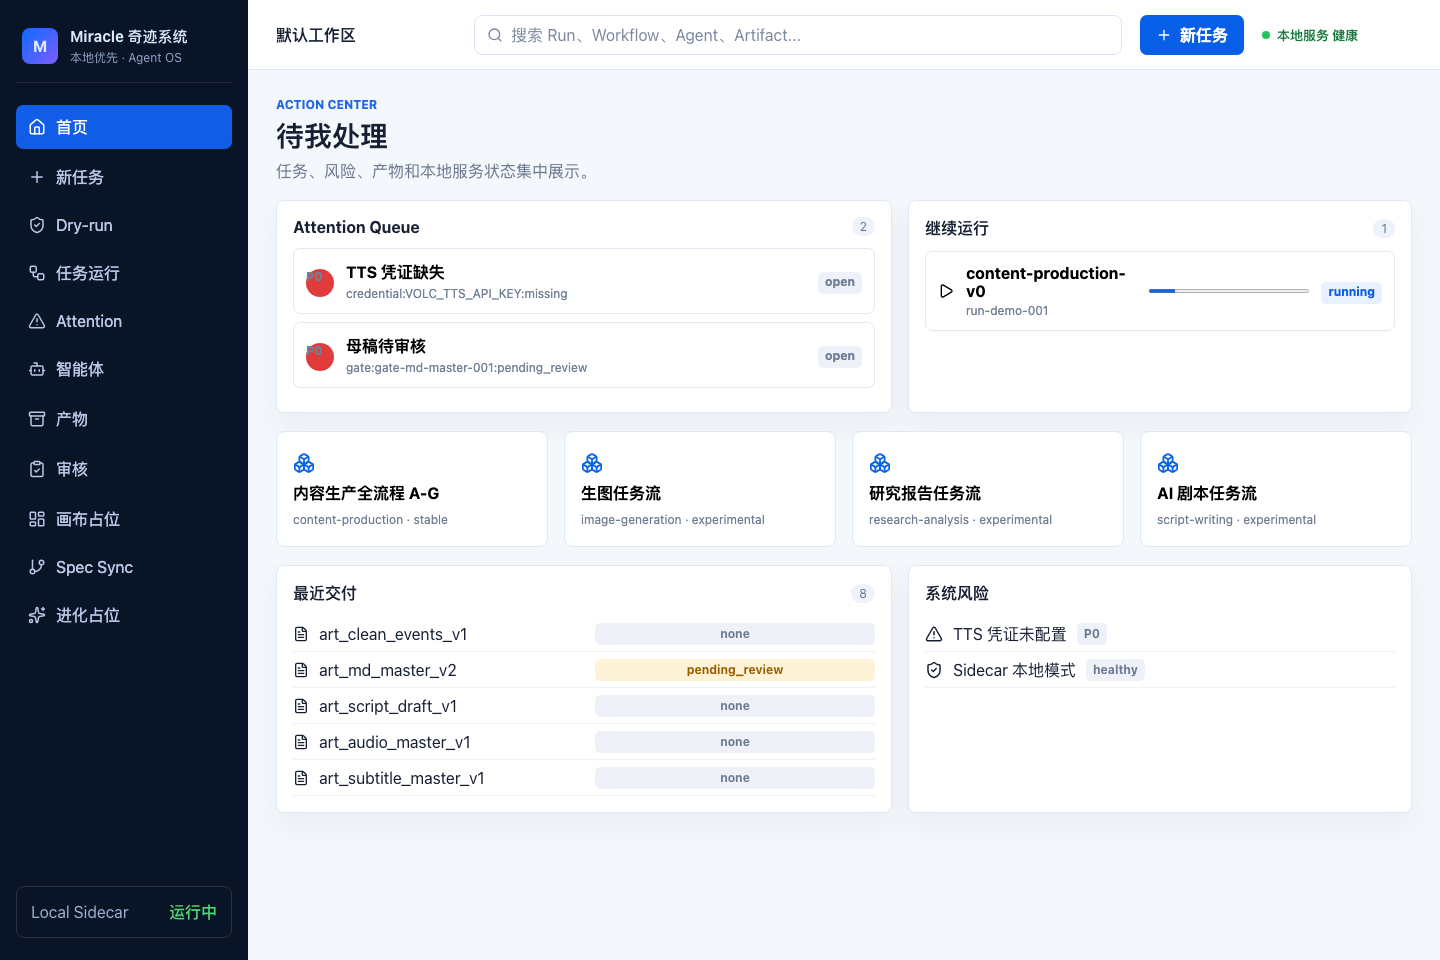
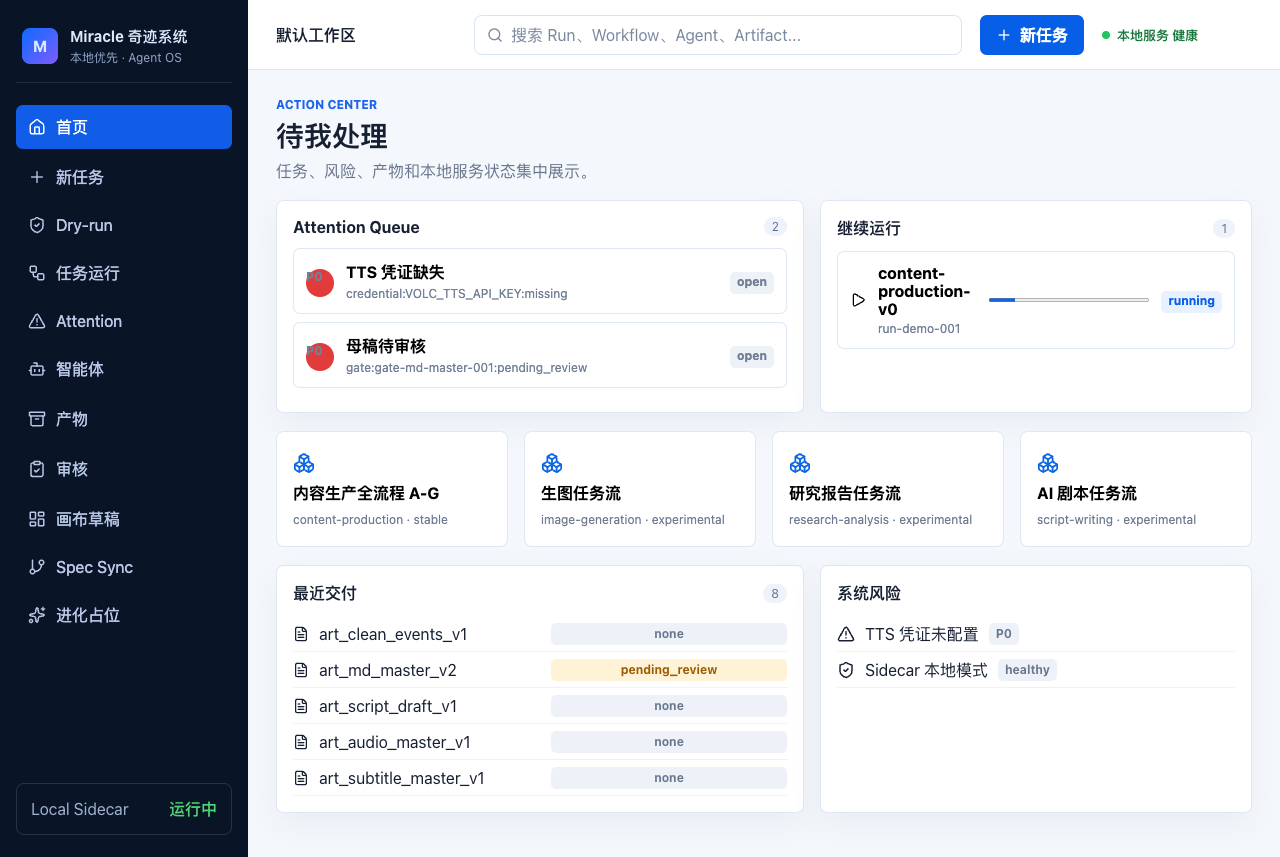
完成D10 MVP回归验收与版本收口

diff --git a/apps/web/src/App.tsx b/apps/web/src/App.tsx
@@ -324,7 +324,17 @@ function NewTaskPage({ workflowId, setWorkflowId, go }: { workflowId: string; se
 }
 
 function DryRunPage({ workflowId, setRunId, go }: { workflowId: string; setRunId: (id: string) => void; go: (page: Page) => void }) {
-  const plan = useApi<any>(`/workflows/${workflowId}/dry-run`, [workflowId]);
+  const [plan, setPlan] = useState<ApiState<any>>({ loading: true });
+  useEffect(() => {
+    let alive = true;
+    setPlan((current) => current.data ? { ...current, loading: false, refreshing: true, error: undefined } : { loading: true });
+    api<any>(`/workflows/${workflowId}/dry-run`, { method: "POST", body: JSON.stringify({}) })
+      .then((data) => alive && setPlan({ loading: false, refreshing: false, data, updatedAt: Date.now() }))
+      .catch((error: Error) => alive && setPlan((current) => ({ ...current, loading: false, refreshing: false, error: error.message })));
+    return () => {
+      alive = false;
+    };
+  }, [workflowId]);
   async function startRun() {
     const result = await api<any>("/runs", { method: "POST", body: JSON.stringify({ workflow_id: workflowId, execution_policy: "hybrid", role_profile: "operator" }) });
     setRunId(result.run_id);
@@ -928,17 +938,16 @@ function CanvasPage({ workflowId }: { workflowId: string }) {
   }
 
   async function addNodeDraft() {
-    setSaveState("正在保存当前画布");
+    if (objects.length === 0) {
+      setSaveState("生成已取消 · 画布尚未加载");
+      return;
+    }
+    setSaveState("正在生成 NodeSpec draft");
     try {
-      const saved = await saveDraft();
-      if (!saved.ok) {
-        setSaveState(`生成已取消 · ${saved.error}`);
-        return;
-      }
-      setSaveState("正在生成 NodeSpec draft");
       const result = await api<any>(`/workflows/${workflowId}/canvas-draft/nodes`, {
         method: "POST",
         body: JSON.stringify({
+          objects,
           title: nodeTitle,
           capability: nodeCapability,
           zone_id: nodeZone,
@@ -948,7 +957,8 @@ function CanvasPage({ workflowId }: { workflowId: string }) {
       });
       setObjects(result.draft.objects);
       setDraftMeta(result);
-      setSaveState(`已生成草稿节点 · ${result.node_object?.ref_id}`);
+      const nodeId = result.node_object?.node_spec_draft?.node_spec?.id ?? result.node_object?.ref_id;
+      setSaveState(`已生成草稿节点 · ${nodeId}`);
     } catch (error) {
       setSaveState(`生成失败 · ${error instanceof Error ? error.message : "NodeSpec draft invalid"}`);
     }

diff --git a/apps/sidecar/test/api.test.ts b/apps/sidecar/test/api.test.ts
@@ -282,14 +282,20 @@ describe("sidecar api", () => {
   });
 
   it("creates a Canvas NodeSpec draft with validate-before-save", async () => {
+    const current = await fetchJson<{
+      draft: { objects: Array<{ id: string; x: number; y: number }> };
+    }>("/api/v0/workflows/content-production-v0/canvas-draft");
+    const moved = current.draft.objects.map((object, index) => (index === 0 ? { ...object, x: object.x + 24, y: object.y + 16 } : object));
     const created = await fetchJson<{
       accepted: boolean;
+      draft: { objects: Array<{ id: string; x: number; y: number }> };
       node_object: { ref_id: string; node_spec_draft: { status: string; node_spec: { id: string; capability_requirements: string[] } } };
       validation: { valid: boolean; errors: unknown[] };
       spec_diff_preview: { operations: Array<{ op: string; path: string }> };
     }>("/api/v0/workflows/content-production-v0/canvas-draft/nodes", {
       method: "POST",
       body: JSON.stringify({
+        objects: moved,
         title: "Pencil 原型设计",
         capability: "prototype.pencil",
         zone_id: "content"
@@ -300,6 +306,7 @@ describe("sidecar api", () => {
     expect(created.validation.valid).toBe(true);
     expect(created.node_object.node_spec_draft.status).toBe("ready");
     expect(created.node_object.node_spec_draft.node_spec.capability_requirements).toEqual(["prototype.pencil"]);
+    expect(created.draft.objects.find((object) => object.id === moved[0]?.id)?.x).toBe(moved[0]?.x);
     expect(created.spec_diff_preview.operations.some((operation) => operation.op === "add" && operation.path === "/nodes/-")).toBe(true);
 
     const draft = await fetchJson<{
@@ -398,8 +405,8 @@ describe("sidecar api", () => {
       };
     }>("/api/v0/project/roadmap");
 
-    expect(body.current_node_id).toBe("p4-05");
-    expect(body.phase_timeline.some((phase) => phase.id === "p4-05" && phase.status === "current")).toBe(true);
+    expect(body.current_node_id).toBe("p4-06");
+    expect(body.phase_timeline.some((phase) => phase.id === "p4-06" && phase.status === "current")).toBe(true);
     expect(body.mvp_execution_plan.some((task) => task.day === "D10")).toBe(true);
     expect(body.sync_state.git.available).toBe(true);
     expect(body.sync_state.git.head).toMatch(/[0-9a-f]{40}/);

diff --git a/apps/sidecar/src/server.ts b/apps/sidecar/src/server.ts
@@ -1340,8 +1340,15 @@ async function route(req: IncomingMessage, res: ServerResponse) {
     if (parts[4] === "canvas-draft") {
       const draftPath = `drafts/canvas-${workflowId}.json`;
       if (req.method === "POST" && parts[5] === "nodes") {
-        const currentDraft = (await readJsonOptional<CanvasLayout>(draftPath)) ?? buildCanvasDraftFromWorkflow(workflow);
         const body = await parseBody(req);
+        const currentDraft: CanvasLayout = Array.isArray(body.objects) && body.objects.length > 0
+          ? {
+              workflow_id: workflowId,
+              status: "draft",
+              updated_at: new Date().toISOString(),
+              objects: body.objects.map((object) => object as CanvasLayout["objects"][number])
+            }
+          : (await readJsonOptional<CanvasLayout>(draftPath)) ?? buildCanvasDraftFromWorkflow(workflow);
         const nodeObject = buildCanvasNodeSpecDraft({
           workflow,
           draft: currentDraft,

diff --git a/plans/mvp-task-baseline/index.html b/plans/mvp-task-baseline/index.html
@@ -3,6 +3,7 @@
   <head>
     <meta charset="UTF-8" />
     <meta name="viewport" content="width=device-width, initial-scale=1.0" />
+    <link rel="icon" href="data:," />
     <title>Miracle MVP 任务基线</title>
     <style>
       :root {

diff --git a/apps/web/index.html b/apps/web/index.html
@@ -3,6 +3,7 @@
   <head>
     <meta charset="UTF-8" />
     <meta name="viewport" content="width=device-width, initial-scale=1.0" />
+    <link rel="icon" href="data:," />
     <title>Miracle Agent OS MVP</title>
   </head>
   <body>

diff --git a/35_P4_MVP回归验收与版本收口报告.md b/35_P4_MVP回归验收与版本收口报告.md
@@ -1,0 +1,136 @@
+# 35_P4_MVP回归验收与版本收口报告
+
+> 文档状态：D10 MVP 回归验收通过。
+>
+> 验收日期：2026-07-02
+>
+> 适用版本：`v0.7.0`
+>
+> 验收范围：P4 MVP 本地 Web + Local Sidecar + core + fixture workspace。
+
+## 1. 结论
+
+D10 MVP 回归验收通过。Miracle 当前具备一条可运行、可演示、可回归的本地 Agent OS 主链路：
+
+```text
+WorkflowSpec / Registry / AdapterManifest
+-> Validate / Dry-run / POST Run
+-> Run DAG / Node Detail / Artifact / Gate / Attention
+-> 手动执行 / Scheduler tick / Scheduler run
+-> Gate 审核 / Reject 返工 / 新版本审核
+-> Canvas NodeSpec draft / Workflow draft
+-> task-baseline / 版本记录 / 截图证据
+```
+
+本轮验收中发现并修复两个 Web 回归：
+
+1. Dry-run 页面错误使用 GET 请求 `/workflows/:id/dry-run`，已改为 POST。
+2. Canvas 生成 NodeSpec draft 前先保存草稿，可能在空状态下覆盖服务端 layout，已改为随节点生成请求携带当前 `objects`，并增加空画布保护。
+
+## 2. 命令验收
+
+在仓库根目录执行并通过：
+
+| 命令 | 结果 |
+|---|---|
+| `npm run typecheck` | 通过 |
+| `npm run test` | 通过，Sidecar 22 tests，Core 6 tests，Web no test files |
+| `npm run build` | 通过 |
+| `git diff --check` | 通过 |
+
+## 3. API Smoke
+
+只读 API 使用 `http://127.0.0.1:4317`，写入类 API 使用临时 workspace 和 `http://127.0.0.1:4327`，避免污染 fixture。
+
+只读 smoke 覆盖 20 个端点，包括：
+
+- `/api/v0/health`
+- `/api/v0/project/roadmap`
+- `/api/v0/domains`
+- `/api/v0/roles`
+- `/api/v0/registry/templates`
+- `/api/v0/adapters`
+- `/api/v0/workflows`
+- `/api/v0/workflows/content-production-v0`
+- `/api/v0/workflows/content-production-v0/validate`
+- `/api/v0/workflows/content-production-v0/dry-run`
+- `/api/v0/runs`
+- `/api/v0/runs/run-demo-001`
+- `/api/v0/runs/run-demo-001/dag`
+- `/api/v0/runs/run-demo-001/events`
+- `/api/v0/agents/health`
+- `/api/v0/agents/collaboration`
+- `/api/v0/attention`
+- `/api/v0/artifacts`
+- `/api/v0/artifacts/art_md_master_v2?run_id=run-demo-001`
+- `/api/v0/gates/gate-md-master-001?run_id=run-demo-001`
+
+写入 smoke 覆盖：
+
+| 能力 | 结果 |
+|---|---|
+| `POST /runs` | 创建临时 Run 成功 |
+| `POST /runs/:runId/nodes/:nodeRunId/execute` | AdapterResult `succeeded` |
+| `POST /runs/:runId/scheduler/tick` | dry-run 返回 `dry_run` |
+| `POST /runs/:runId/scheduler/run` | 连续推进停在 `paused_for_gate` |
+| `POST /workflows/:workflowId/canvas-draft/nodes` | NodeSpec draft `ready` |
+| `POST /workflows/:workflowId/canvas-draft/publish` | draft Workflow validate 通过 |
+| `POST /gates/:gateId/decision` | reject 决策写入成功 |
+| `POST /gates/:gateId/rework` | 返工 version 2 和新 Gate 创建成功 |
+
+## 4. 页面 Smoke 与截图证据
+
+截图统一放在 `assets/reviews/p4-mvp/`。
+
+| 页面 | 截图 | 验收点 |
+|---|---|---|
+| 首页 | `assets/reviews/p4-mvp/01-home.png` | Attention、继续运行、最近交付、系统风险可见 |
+| 新任务 | `assets/reviews/p4-mvp/02-new-task.png` | 多 Domain、多模板入口可见 |
+| Dry-run | `assets/reviews/p4-mvp/03-dry-run.png` | POST dry-run 返回节点、风险和成本 |
+| Run 工作区 | `assets/reviews/p4-mvp/04-run-dag-node-detail.png` | React Flow DAG、Node Detail、Polling、事件审计可见 |
+| Attention | `assets/reviews/p4-mvp/05-attention.png` | 根因聚合、关联对象和安全动作可见 |
+| Gate Review | `assets/reviews/p4-mvp/06-gate-review.png` | Gate 详情、决策投影、下游影响可见 |
+| Artifact Board | `assets/reviews/p4-mvp/07-artifact-preview.png` | ArtifactManifest、Markdown 预览、hash/version 可见 |
+| Agent Collaboration | `assets/reviews/p4-mvp/08-agent-collaboration.png` | Agent 状态、等待对象和 active run 可见 |
+| Infinite Canvas | `assets/reviews/p4-mvp/09-canvas-node-draft.png` | NodeSpec draft、validate-ready、spec diff 可见 |
+| task-baseline | `assets/reviews/p4-mvp/10-task-baseline.png` | 任务基线、Git 状态、证据文件列表可见 |
+
+## 5. D10 修复项
+
+### 5.1 Dry-run 请求方法
+
+问题：Web Dry-run 页面通过 GET 请求 dry-run，Sidecar 只定义 POST。
+
+修复：`DryRunPage` 改为独立 POST 加载逻辑，不再复用 GET-only `useApi`。
+
+### 5.2 Canvas NodeSpec Draft 状态保护
+
+问题：生成 NodeSpec draft 前先保存草稿，若本地 `objects` 为空，会把服务端草稿覆盖为空。
+
+修复：
+
+- UI 生成节点时直接携带当前 `objects`。
+- UI 对空画布增加保护，不执行生成。
+- Sidecar `canvas-draft/nodes` 支持使用请求中的 `objects` 作为合并基线。
+- Sidecar 测试补充“未保存 layout + 新增节点”场景，确认 layout 变更不会丢失。
+
+## 6. 不进入本次验收的能力
+
+以下能力仍不作为 v0.7.0 阻断项：
+
+1. 真实 Codex / Hermes / OpenClaw / 官方 API 执行。
+2. 商业化云端控制平面。
+3. 多租户、账号、组织、权限、计费。
+4. 后台常驻 scheduler、跨 Run 队列和 Worker 池。
+5. 完整 Visual/Spec 文件 watcher、冲突合并和 Evolution 推荐算法。
+6. 移动端 / APP 适配。
+7. 真实 TTS、视频渲染和外部媒体服务调用。
+
+## 7. 后续建议
+
+下一阶段建议进入 P5 真实工作流接入：
+
+1. 接入“热点工具更新”真实 Flow A-G 历史 Run。
+2. 将现有 `approval_policy.yaml`、`task_trace.json`、`task_events.jsonl` 映射到 Miracle 对象。
+3. 先做只读展示，再进入半自动控制。
+4. 选择一个真实 Adapter 做最小可用接入，优先 Codex 或官方 API。

diff --git a/plans/mvp-task-baseline/README.md b/plans/mvp-task-baseline/README.md
@@ -22,12 +22,12 @@
 | P4 第四轮 | Gate 决策真实推进、Run 执行 UI、Canvas 发布 Workflow draft、Adapter 插件壳落地 | `27_P4第四轮_Gate推进Canvas发布与执行UI交付说明.md` |
 | P4 第五轮 D7 | Adapter manifest、Codex mock-compatible adapter、credential check 落地 | `32_P4第五轮_D7_Adapter插件目录实体化交付说明.md` |
 | P4 第五轮 D8/D9 | Canvas NodeSpec draft、validate-before-save、Run polling 和执行反馈落地 | `34_P4第五轮_D8_D9_Canvas节点草稿与Run刷新交付说明.md` |
-| D10 预备 | MVP 回归验收预备清单已生成，等待执行最终收口 | `33_P4_MVP回归验收预备清单.md` |
+| D10 验收 | MVP 回归验收与版本收口已通过，形成 v0.7.0 本地 MVP 验收基线 | `35_P4_MVP回归验收与版本收口报告.md` |
 
 当前红点：
 
 ```text
-P4 第五轮 MVP 执行能力补齐：D8/D9 已完成，D10 MVP 回归验收与版本收口为当前主线
+P4 MVP 验收与版本发布：D10 已完成，下一主线建议进入 P5 真实工作流接入
 ```
 
 ## 2. 可视化实现方式
@@ -64,7 +64,7 @@ Sidecar 在每次请求 `/api/v0/project/roadmap` 时动态补充：
 | D7 | Adapter 插件目录实体化 | 已完成，可并行 | Agent D | adapter manifests、Codex mock-compatible adapter、credential check |
 | D8 | Canvas 新增节点生成 NodeSpec draft | 已完成，可并行 | Agent B | 新增 node card、NodeSpec draft、validate-before-save |
 | D9 | Web run refresh/polling 与执行反馈 | 已完成，可并行 | Agent B | run polling、执行中状态、错误恢复提示 |
-| D10 | MVP 回归验收与版本收口 | 当前主线，串行收口 | Lead | typecheck/test/build、截图证据、版本记录 |
+| D10 | MVP 回归验收与版本收口 | 已完成，串行收口 | Lead | typecheck/test/build、API smoke、截图证据、版本记录、`35` |
 
 ## 4. 串行与并行边界
 
@@ -96,8 +96,8 @@ Sidecar 在每次请求 `/api/v0/project/roadmap` 时动态补充：
 
 | 阶段 | 目标 | 判断标准 |
 |---|---|---|
-| L1 本地 MVP 完整闭环 | 本地 Web + Local Sidecar 打通 Run、Gate、Artifact、Agent、Canvas、scheduler | 能本地启动、执行、审核、返工、查看审计 |
-| L2 真实工作流接入 | 接入真实“热点工具更新”流程 | 能导入历史 run，并启动一个半自动新 run |
+| L1 本地 MVP 完整闭环 | 本地 Web + Local Sidecar 打通 Run、Gate、Artifact、Agent、Canvas、scheduler | 已通过 D10 回归验收 |
+| L2 真实工作流接入 | 接入真实“热点工具更新”流程 | 下一阶段：能导入历史 run，并启动一个半自动新 run |
 | L3 真实 Adapter 接入 | 至少接入 Codex 或官方 API 的真实执行 | AdapterResult、ArtifactManifest、TraceEvent 可对账 |
 | L4 稳定运行系统 | 队列、重试、失败恢复、资源池、凭证治理 | 长任务可恢复，失败不丢审计 |
 | L5 商业化平台 | 云端控制平面、多租户、权限、计费、团队协作 | 可以支持团队和商业化部署 |
@@ -108,7 +108,7 @@ Sidecar 在每次请求 `/api/v0/project/roadmap` 时动态补充：
 
 1. 通过 Sidecar 独立地址 `/task-baseline` 访问，不进入 `apps/web` 侧边栏。
 2. 总体阶段用绿色、红色、灰色展示完成、当前和计划。
-3. 当前红点指向 `P4 第五轮 MVP 执行能力补齐`。
+3. 当前红点指向 `P4 MVP 验收与版本发布`。
 4. D1-D10 能区分串行和可并行任务。
 5. 能看到最近 Git 提交。
 6. 能看到工作区是否有未提交修改。
@@ -132,6 +132,7 @@ API:  http://127.0.0.1:4317/api/v0/project/roadmap
 
 ```text
 plans/mvp-task-baseline/roadmap-page.png
+assets/reviews/p4-mvp/
 ```
 
 ## 7. 后续维护规则

diff --git a/17_文档资产关联与AI阅读导航.md b/17_文档资产关联与AI阅读导航.md
@@ -150,6 +150,7 @@ flowchart TD
   P4H --> P4I["32 P4 第五轮 D7 Adapter 目录<br/>CURRENT"]
   P4I --> P4J["34 P4 第五轮 D8/D9 Canvas/Run 刷新<br/>CURRENT"]
   P4J --> P4K["33 D10 MVP 验收预备<br/>CURRENT"]
+  P4K --> P4L["35 D10 MVP 验收通过<br/>CURRENT"]
 ```
 
 图中虚线“采纳项回写”表示：评审文档本身不是最终规则，最终规则已经写回对应设计文档。
@@ -181,6 +182,7 @@ flowchart TD
 -> P4 MVP 第五轮 D7 Adapter 插件目录实体化 32
 -> P4 MVP 第五轮 D8/D9 Canvas 节点草稿与 Run 刷新 34
 -> D10 MVP 回归验收预备清单 33
+-> D10 MVP 回归验收与版本收口报告 35
 ```
 
 关键关系：
@@ -227,7 +229,9 @@ flowchart TD
   交付入口，记录 Canvas NodeSpec draft、validate-before-save、Workflow draft 发布、
   Run polling 和执行反馈。
 - `33_P4_MVP回归验收预备清单.md` 是 D10 验收预备资产，记录回归场景、命令、截图和
-  task-baseline 同步检查项；它不是 D10 已完成结论。
+  task-baseline 同步检查项；D10 实际结论以 `35_P4_MVP回归验收与版本收口报告.md` 为准。
+- `35_P4_MVP回归验收与版本收口报告.md` 是当前 P4 MVP 验收结果，记录命令验收、
+  API smoke、截图证据、D10 修复项和 `v0.7.0` 收口结论。
 - 项目任务基线不进入系统设计文档序列，独立维护在 `plans/mvp-task-baseline/`。
 
 ## 6. 全量文档资产表
@@ -280,7 +284,8 @@ flowchart TD
 | `31_P4第五轮_D6_Scheduler连续执行闭环交付说明.md` | `CURRENT` | 30、apps/sidecar、apps/web、任务基线 | P4 D7/D9 后续实现、P5 | Scheduler 执行闭环任务必读 |
 | `32_P4第五轮_D7_Adapter插件目录实体化交付说明.md` | `CURRENT` | 31、packages/core、apps/sidecar、任务基线 | P4 D8/D9 后续实现、P5 | Adapter 目录和平台扩展任务必读 |
 | `34_P4第五轮_D8_D9_Canvas节点草稿与Run刷新交付说明.md` | `CURRENT` | 32、apps/web、apps/sidecar、packages/core、任务基线 | D10 MVP 验收、P5 | Canvas NodeSpec draft 和 Run 刷新任务必读 |
-| `33_P4_MVP回归验收预备清单.md` | `CURRENT` | 24-34、任务基线 | D10 MVP 验收执行 | 验收收口时必读 |
+| `33_P4_MVP回归验收预备清单.md` | `CURRENT` | 24-34、任务基线 | 35 | 验收规则追溯时读 |
+| `35_P4_MVP回归验收与版本收口报告.md` | `CURRENT` | 33、24-34、任务基线、截图证据 | P5 真实工作流接入 | 当前 MVP 验收结论必读 |
 | `VERSION_HISTORY.md` | `REFERENCE` | Git 与里程碑 | 发布和追溯 | 版本任务时读 |
 | `README.md` | `CURRENT` | 全项目 | 项目入口 | 每次任务先读 |
 | `17_文档资产关联与AI阅读导航.md` | `CURRENT` | 全项目 | AI/人工阅读路由 | 每次任务先读 |
@@ -355,6 +360,7 @@ prototypes/p2/fusion-clickable/README.md
 32_P4第五轮_D7_Adapter插件目录实体化交付说明.md
 34_P4第五轮_D8_D9_Canvas节点草稿与Run刷新交付说明.md
 33_P4_MVP回归验收预备清单.md
+35_P4_MVP回归验收与版本收口报告.md
 ```
 
 默认跳过四轮评审，因为采纳项已经回写。

diff --git a/33_P4_MVP回归验收预备清单.md b/33_P4_MVP回归验收预备清单.md
@@ -1,10 +1,12 @@
 # 33_P4_MVP回归验收预备清单
 
-> 文档状态：D10 MVP 回归验收与版本收口预备清单。
+> 文档状态：D10 MVP 回归验收与版本收口预备清单，已由
+> `35_P4_MVP回归验收与版本收口报告.md` 执行并收口。
 >
 > 适用阶段：D8 Canvas 新增节点生成 NodeSpec draft、D9 Web run refresh/polling 完成后执行最终验收。
 >
-> 写入边界：本文件只作为验收预备资产，不代表 D10 已完成；README、VERSION_HISTORY、roadmap.json 和 task-baseline 由主线程统一收口。
+> 写入边界：本文件保留为验收预备资产；D10 的实际执行结果、截图证据和修复项以
+> `35_P4_MVP回归验收与版本收口报告.md` 为准。
 
 ## 1. 验收目标
 
